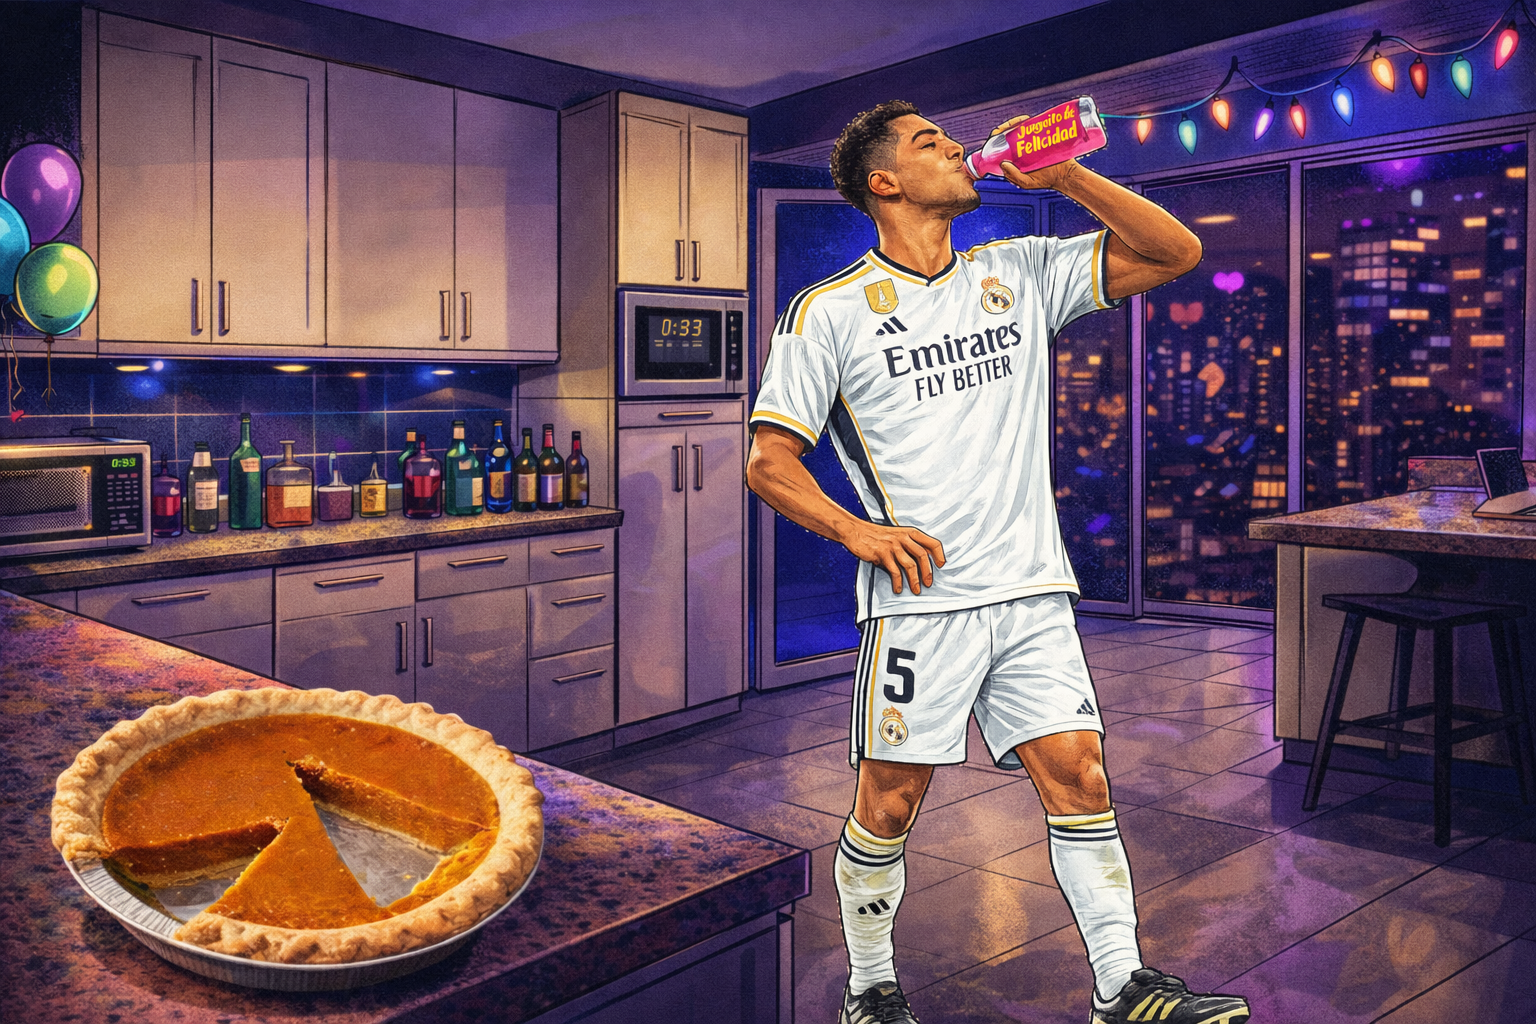
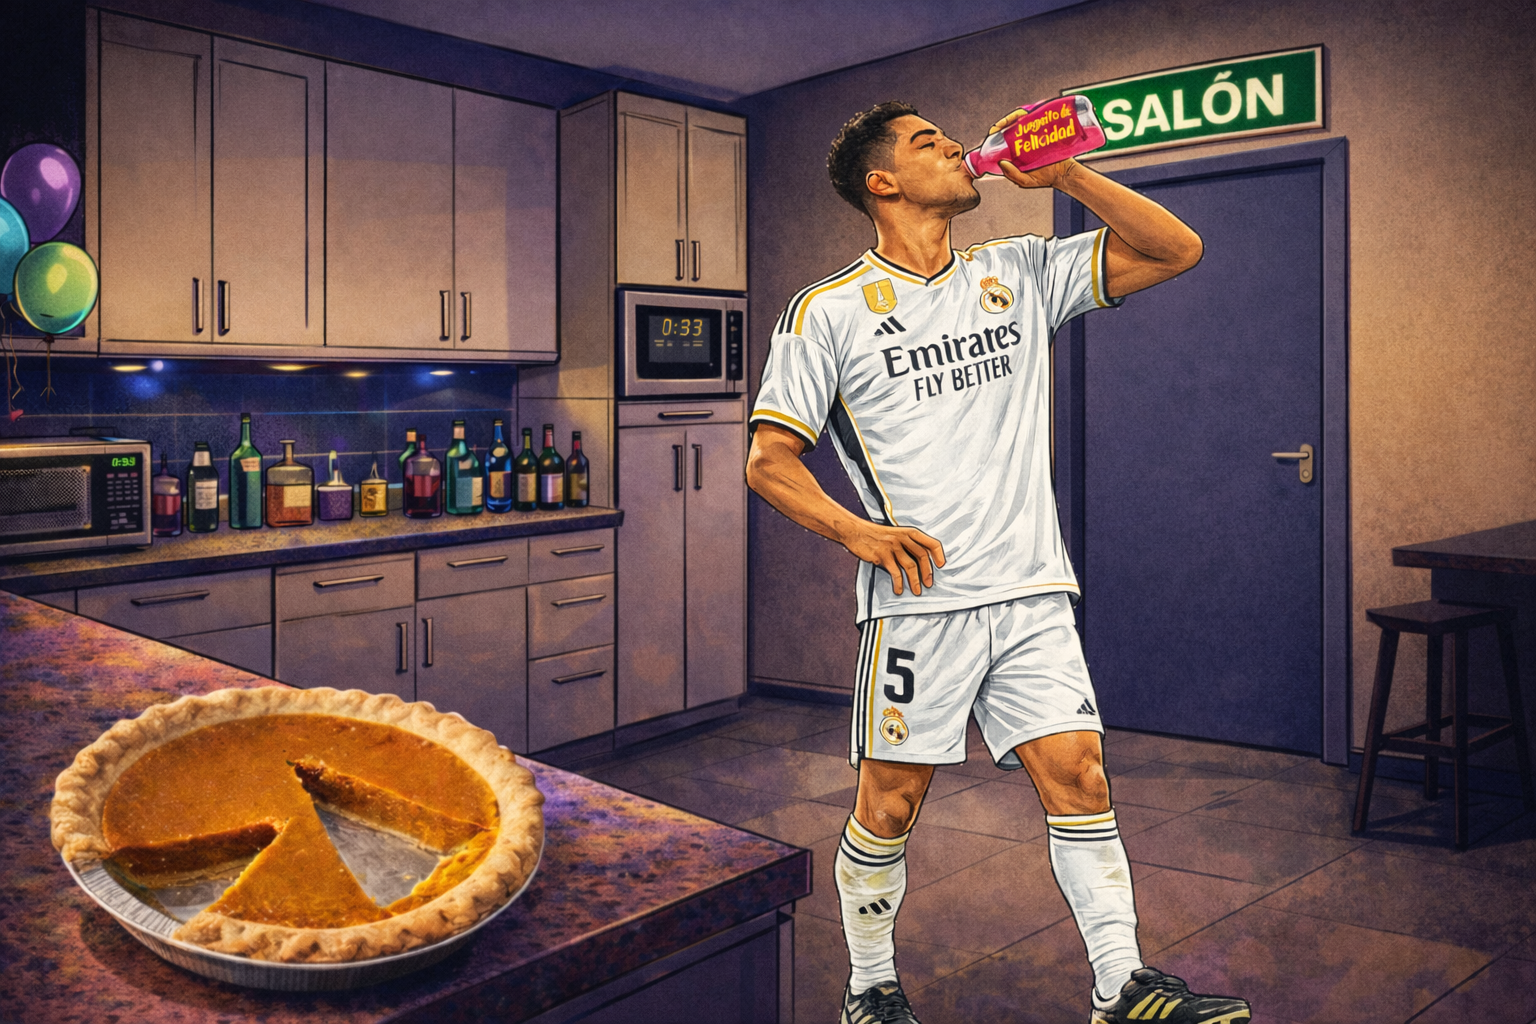
Base minijuego Bellingham

diff --git a/script.js b/script.js
@@ -43,6 +43,7 @@ function dentroCasa() {
     document.getElementById("exit").style.display = "block";
     document.getElementById("bobesponja").style.display = "none";
     document.getElementById("gato").style.display = "block";
+    document.getElementById("cocina").style.display = "block";
 
     document.getElementById("parrafo").innerHTML = "estoy en el slon"
 
@@ -59,6 +60,32 @@ function exit() {
 
     document.getElementById("parrafo").innerHTML = "cuanta gente"
 
+}
+
+function irCocina(){
+    document.getElementById("escena").style.backgroundImage = "url(img/cocina.png)";
+    document.getElementById("gato").style.display = "none";
+    document.getElementById("exit").style.display = "none";
+    document.getElementById("volverSalon").style.display = "block";
+    document.getElementById("cocina").style.display = "none";
+
+    document.getElementById("parrafo").innerHTML = "en la cocina"
+
+
+}
+
+function volverSalon(){
+    document.getElementById("escena").style.backgroundImage = "url(img/salon.png)";
+    document.getElementById("gato").style.display = "block";
+    document.getElementById("exit").style.display = "block";
+        document.getElementById("cocina").style.display = "block";
+
+    document.getElementById("volverSalon").style.display = "none";
+
+}
+
+function minijuegoBellingam(){
+    
 }
 
 function sonidoBob() {

diff --git a/index.html b/index.html
@@ -19,10 +19,12 @@
         <div class="bus" id="bus" onclick="bus()"></div>
         <div class="dentroCasa" id="dentroCasa" onclick="dentroCasa()"></div>
         <div class="exit" id="exit" onclick="exit()"></div>
+        <div class="cocina" id="cocina" onclick="irCocina()"></div>
+        <div class="volverSalon" id="volverSalon" onclick="volverSalon()"></div>
+
         <div class="bobesponja" id="bobesponja" onclick="sonidoBob()"><audio id="miAudioBob"
                 src="audio/audiobob.mp3"></audio></div>
-        <div class="gato" id="gato" onclick="miau()"><audio id="miau"
-                src="audio/miau.mp3"></audio></div>
+        <div class="gato" id="gato" onclick="miau()"><audio id="miau" src="audio/miau.mp3"></audio></div>
 
 
 

diff --git a/style.css b/style.css
@@ -96,6 +96,23 @@ body {
   display: none;
 }
 
+.cocina {
+  position: absolute;
+  width: 116px;
+  height: 245px;
+  top: 168px;
+  right: 993px;
+}
+
+.volverSalon {
+  position: absolute;
+  width: 178px;
+  height: 420px;
+  top: 168px;
+  right: 553px;
+  display: none;
+}
+
 .bobesponja{
     background-image: url(img/bobesponja.png);
 background-size: contain; 
